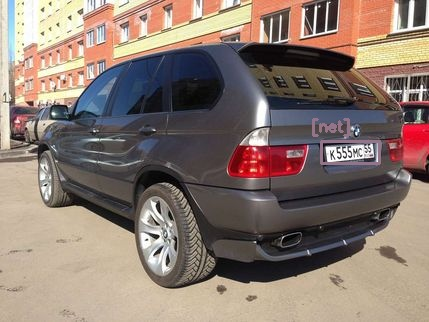
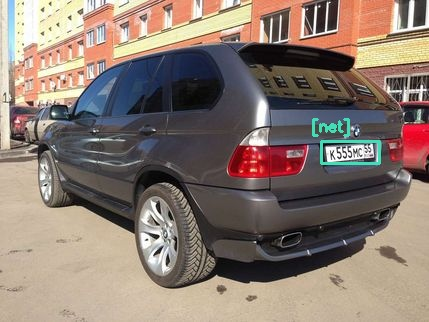
Подключил и настроил, но не распознает текст с фото, нужно нормализировать
чем - хз

Changed region(s): [[0.7273, 0.3416, 0.9091, 0.528]]

diff --git a/programm.py b/programm.py
@@ -1,10 +1,11 @@
 import sqlite3
 import cv2
-import argparse
 import numpy as np
 from PIL import Image
 import os
+import pytesseract
 
+pytesseract.pytesseract.tesseract_cmd = r'C:\Program Files\Tesseract-OCR\tesseract.exe'
 
 def cut_image(img, x, y, x_plus_w, y_plus_h):
     image = Image.open("inputImages/" + img)
@@ -80,10 +81,14 @@ def work_with_image(imageArg):
 
 con = sqlite3.connect("TestDB") 
 cursor = con.cursor()
-query = "SELECT * FROM cars INNER JOIN users ON users.userId = cars.userId;"
+getUserInfo = con.cursor()
+query = "SELECT * FROM users INNER JOIN cars ON users.userId = cars.userId;"
 cursor.execute(query)
 data = cursor.fetchall()
-print(data)
+
+carNumbers = []
+for line in data:
+    carNumbers.append(line[4])
 
 configArg = "config/darknet-yolov3.cfg"
 weightsArg = "config/lapi.weights"
@@ -92,3 +97,37 @@ classesArg = "config/classes.names"
 for imageName in os.listdir("inputImages"):
     image = imageName
     work_with_image(image)
+    
+    # загрузить образ и преобразовать его в оттенки серого
+    cutImage = "outputImages/" + image + "_masked.jpg"
+    converCutImage = np.array(Image.open(cutImage)) #"outputImages/" + image + "_masked.jpg"
+    preprocess = "thresh"
+    gray = cv2.cvtColor(converCutImage, cv2.COLOR_BGR2GRAY)
+    
+    # проверьте, следует ли применять пороговое значение для предварительной обработки изображения
+    if preprocess == "thresh":
+        gray = cv2.threshold(gray, 0, 255,
+            cv2.THRESH_BINARY | cv2.THRESH_OTSU)[1]
+    # если нужно медианное размытие, чтобы удалить шум
+    elif preprocess == "blur":
+        gray = cv2.medianBlur(gray, 3)
+        
+    # сохраним временную картинку в оттенках серого, чтобы можно было применить к ней OCR
+    filename_dir = "outputImages/gray/{}.png".format(os.getpid())
+    cv2.imwrite(filename_dir, gray)
+    
+    # загрузка изображения в виде объекта image Pillow, применение OCR, а затем удаление временного файла
+    text = pytesseract.image_to_string(Image.open(filename_dir))
+    print(text)
+    os.remove(filename_dir)
+    #os.remove(cutImage)
+
+    #Поиск номера в базе
+    carIsExist = ""
+    try:
+        query = "SELECT * FROM users INNER JOIN cars ON users.userId = cars.userId WHERE carNumber={text};"
+        getUserInfo.execute(query)
+        carData = getUserInfo.fetchall()
+        print(carData)
+    except:
+        print("Car not in database!")

diff --git a/database.py b/database.py
@@ -27,11 +27,11 @@ newUsers = [(1, 'Иван', 'Иванов'),
       (5, 'Петр', 'Васильев')]
 cursor.executemany("INSERT INTO users VALUES(?, ?, ?);", newUsers)
 
-newCars = [(1,  'Х045ЕР777', 'ВАЗ 2106', 1), 
-      (2, 'К555МС55', 'BMW X3?', 1), 
-      (3, 'О751АА98', 'Ford Focus 3', 3), 
-      (4, 'Е060КХ177', 'Ford Focus 5', 4), 
-      (5, 'Е536КХ177', 'Ford Focus 5', 2)]
+newCars = [(1,  'X045EP777', 'ВАЗ 2106', 1), 
+      (2, 'K555MC55', 'BMW X3?', 1), 
+      (3, 'O751AA98', 'Ford Focus 3', 3), 
+      (4, 'E060KX177', 'Ford Focus 5', 4), 
+      (5, 'E536KX177', 'Ford Focus 5', 2)]
 cursor.executemany("INSERT INTO cars VALUES(?, ?, ?, ?);", newCars)
 con.commit()
 

diff --git a/fromImageToText/covnertImageToText.py b/fromImageToText/covnertImageToText.py
@@ -3,10 +3,11 @@ import pytesseract
 import cv2
 import os
 
-pytesseract.pytesseract.tesseract_cmd = r'C:\Program Files (x86)\Tesseract-OCR\tesseract.exe'
+pytesseract.pytesseract.tesseract_cmd = r'C:\Program Files\Tesseract-OCR\tesseract.exe'
 
 base_dir = os.path.dirname(os.path.abspath(__file__))
-image = base_dir + r'\tmp\test.PNG'
+#image = base_dir + r'\tmp\test.PNG'
+image = base_dir + r'\tests\data\IgorVasiliev.jpg_masked.jpg' #r'\tests\data\test.png'
 d = Image.open(image)
 preprocess = "thresh"
 
